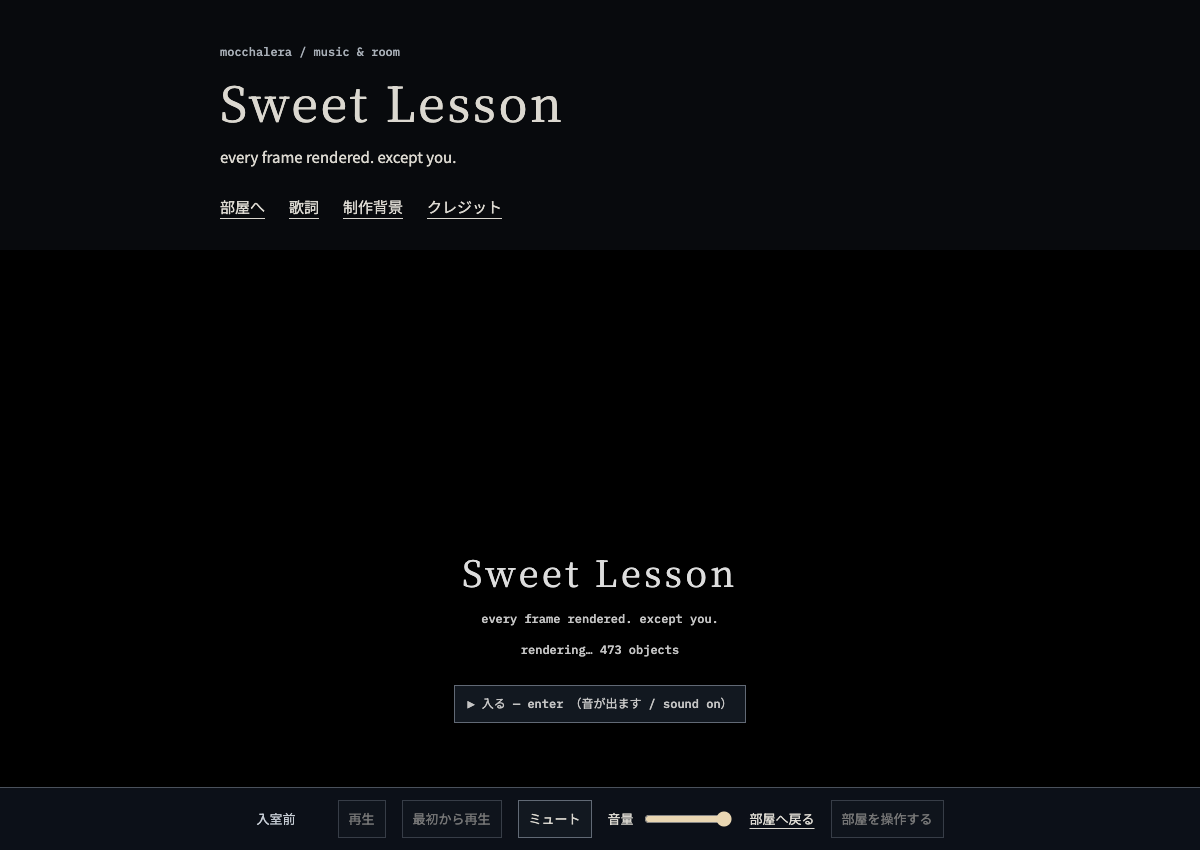
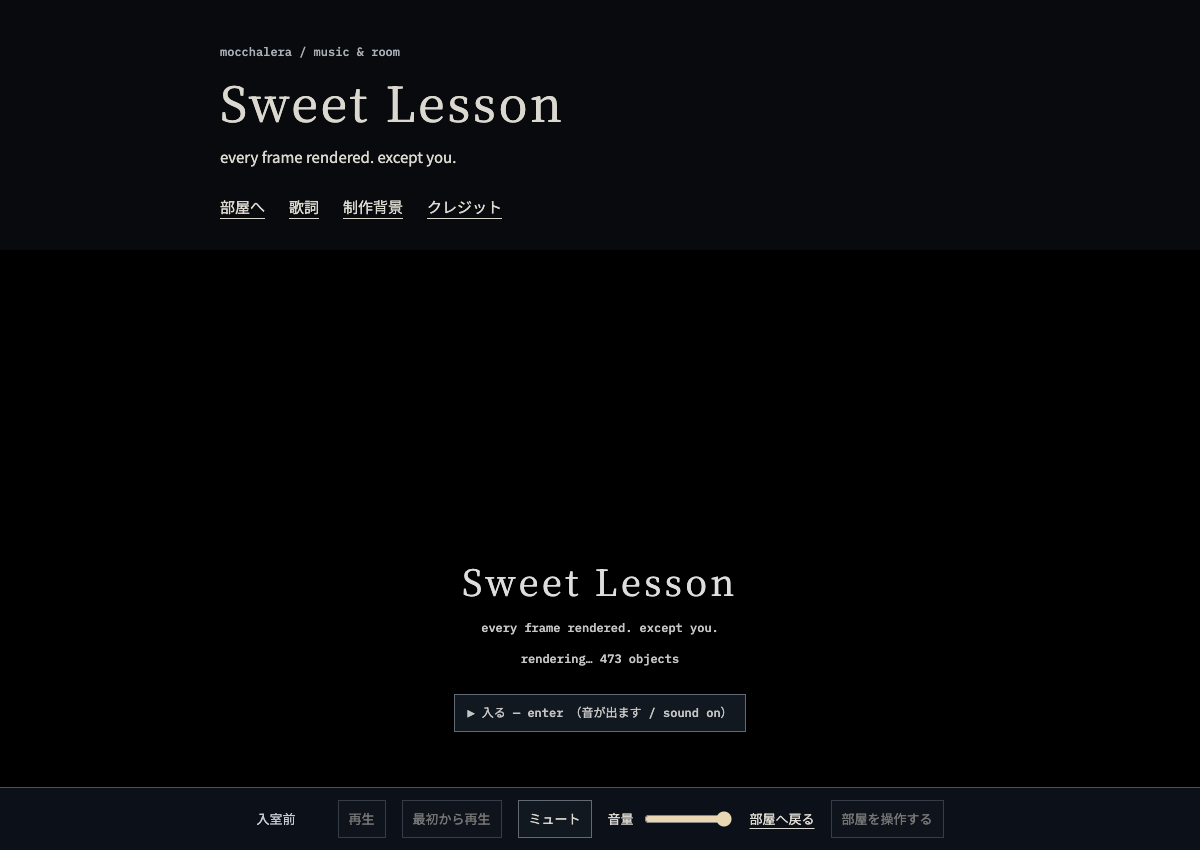
fix(sweet-lesson): settle room scroll without trapping page navigation

Changed region(s): [[0.37, 0.6424, 0.6167, 0.8871]]

diff --git a/projects/sweet-lesson-mv/web/page.css b/projects/sweet-lesson-mv/web/page.css
@@ -1,1 +1,1 @@
-html{background:#080a0d;color:#dbd8d0;font:15px/1.85 "Room Sans","Hiragino Sans",sans-serif}body{margin:0}*{box-sizing:border-box}a{color:inherit;text-underline-offset:.3em}button,input{font:inherit}button{color:inherit;background:#121820;border:1px solid #616975;padding:8px 12px;cursor:pointer}button:disabled{opacity:.5;cursor:default}button:hover:enabled{background:#242c36}a:focus-visible,button:focus-visible,input:focus-visible,[tabindex]:focus-visible{outline:2px solid #e9d6b2;outline-offset:5px}#stage:focus-visible{outline-offset:-5px}[hidden]{display:none!important}.sr-only{position:absolute;width:1px;height:1px;padding:0;margin:-1px;overflow:hidden;clip-path:inset(50%);white-space:nowrap;border:0}.skip{position:fixed;top:8px;left:12px;z-index:100;background:#080a0d;padding:12px;transform:translateY(-160%)}.skip:focus{transform:none}.work-header,.reading,.work-footer{width:min(100% - 48px,760px);margin-inline:auto}.work-header{padding:36px 0 30px}.work-header h1{font:400 clamp(32px,5vw,48px)/1.2 "Room Serif",serif;letter-spacing:.06em;margin:12px 0}.work-header p{margin:6px 0}.eyebrow{font:12px/1.6 "Room Mono",monospace;color:#a8afb7}.work-header nav{display:flex;flex-wrap:wrap;gap:12px 24px;margin-top:22px}#room{scroll-margin-top:12px}#room-view{position:relative;isolation:isolate;height:calc(100svh - 82px);min-height:340px;overflow:hidden;background:#000;color:#c4c4c4;user-select:none}#stage{position:absolute;inset:0;touch-action:pan-y pinch-zoom;-webkit-tap-highlight-color:transparent}#room-view.interacting #stage{touch-action:none}#gate{position:absolute;inset:0;display:flex;flex-direction:column;align-items:center;justify-content:center;gap:12px;padding:24px;z-index:5;background:#000;text-align:center;font:12px/1.6 "Room Mono","Room Sans",monospace}#gate p{margin:0}#gate .gate-title{font:400 36px "Room Serif",serif;color:#ddd;letter-spacing:.1em}#gate button{margin-top:14px;opacity:0;transition:opacity .6s}#gate button.on{opacity:1}#hint{position:absolute;left:50%;bottom:24px;transform:translateX(-50%);z-index:4;width:max-content;max-width:90%;text-align:center;font-size:14px;text-shadow:0 0 6px #000;opacity:0;transition:opacity 1.2s;pointer-events:none}#hint.on{opacity:1}#hud{position:absolute;left:8px;top:8px;z-index:6;white-space:pre;pointer-events:none;color:#9a9;text-shadow:0 0 3px #000;display:none}#room-help{max-width:760px;margin:20px auto;padding:0 24px;color:#a8afb7;font-size:13px}.reading{padding:42px 0 0}.reading section{margin-bottom:72px;scroll-margin-top:24px}.reading h2{font:400 25px/1.5 "Room Serif",serif;letter-spacing:.08em;margin:0 0 28px}.reading p{max-width:42em;overflow-wrap:anywhere}.lyrics{font:16px/2.1 "Room Sans","Hiragino Sans",sans-serif}.lyrics p{margin:0}.lyrics .stanza{margin:0 0 32px}dl{margin:0}dt{font:12px/1.8 "Room Mono",monospace;color:#a8afb7}dd{margin:0 0 22px}.work-footer{padding:0 0 150px;color:#a8afb7}#player{position:fixed;left:0;right:0;bottom:0;z-index:20;display:flex;align-items:center;justify-content:center;gap:8px 16px;padding:12px 16px calc(12px + env(safe-area-inset-bottom));background:#0c1018;border-top:1px solid #4a515c;font-size:13px}#player-status{min-width:5em;color:#c7cdd5}#player button{padding:6px 10px}.volume{display:flex;align-items:center;gap:8px}.volume input{width:88px;accent-color:#e9d6b2}#player a{white-space:nowrap}@media(max-width:680px){.work-header,.reading,.work-footer{width:calc(100% - 40px)}.work-header{padding-top:24px}#player{flex-wrap:wrap;gap:8px 12px;justify-content:flex-start}#player-status{min-width:4em}#room-view{height:calc(100svh - 132px)}.lyrics{font-size:15px}.work-footer{padding-bottom:190px}}@media(prefers-reduced-motion:reduce){*,*::before,*::after{scroll-behavior:auto!important;animation:none!important;transition:none!important}}
+html{--player-height:0px;scroll-snap-type:none;scroll-padding-top:env(safe-area-inset-top,0px);scroll-padding-bottom:var(--player-height);background:#080a0d;color:#dbd8d0;font:15px/1.85 "Room Sans","Hiragino Sans",sans-serif}html.room-snap-on:not(.room-snap-free){scroll-snap-type:y proximity}body{margin:0}*{box-sizing:border-box}a{color:inherit;text-underline-offset:.3em}button,input{font:inherit}button{color:inherit;background:#121820;border:1px solid #616975;padding:8px 12px;cursor:pointer}button:disabled{opacity:.5;cursor:default}button:hover:enabled{background:#242c36}a:focus-visible,button:focus-visible,input:focus-visible,[tabindex]:focus-visible{outline:2px solid #e9d6b2;outline-offset:5px}#stage:focus-visible{outline-offset:-5px}[hidden]{display:none!important}.sr-only{position:absolute;width:1px;height:1px;padding:0;margin:-1px;overflow:hidden;clip-path:inset(50%);white-space:nowrap;border:0}.skip{position:fixed;top:8px;left:12px;z-index:100;background:#080a0d;padding:12px;transform:translateY(-160%)}.skip:focus{transform:none}.work-header,.reading,.work-footer{width:min(100% - 48px,760px);margin-inline:auto}.work-header{padding:36px 0 30px}.work-header h1{font:400 clamp(32px,5vw,48px)/1.2 "Room Serif",serif;letter-spacing:.06em;margin:12px 0}.work-header p{margin:6px 0}.eyebrow{font:12px/1.6 "Room Mono",monospace;color:#a8afb7}.work-header nav{display:flex;flex-wrap:wrap;gap:12px 24px;margin-top:22px}#room{scroll-margin-top:0}#room-view{position:relative;isolation:isolate;height:calc(100dvh - var(--player-height) - env(safe-area-inset-top,0px));scroll-snap-align:start;scroll-snap-stop:normal;overflow:hidden;background:#000;color:#c4c4c4;user-select:none}#stage{position:absolute;inset:0;touch-action:pan-y pinch-zoom;-webkit-tap-highlight-color:transparent}#room-view.interacting #stage{touch-action:none}#gate{position:absolute;inset:0;display:flex;flex-direction:column;align-items:center;justify-content:center;gap:12px;padding:24px;z-index:5;background:#000;text-align:center;font:12px/1.6 "Room Mono","Room Sans",monospace}#gate p{margin:0}#gate .gate-title{font:400 36px "Room Serif",serif;color:#ddd;letter-spacing:.1em}#gate button{margin-top:14px;opacity:0;transition:opacity .6s}#gate button.on{opacity:1}#hint{position:absolute;left:50%;bottom:24px;transform:translateX(-50%);z-index:4;width:max-content;max-width:90%;text-align:center;font-size:14px;text-shadow:0 0 6px #000;opacity:0;transition:opacity 1.2s;pointer-events:none}#hint.on{opacity:1}#hud{position:absolute;left:8px;top:8px;z-index:6;white-space:pre;pointer-events:none;color:#9a9;text-shadow:0 0 3px #000;display:none}#room-help{max-width:760px;margin:20px auto;padding:0 24px;color:#a8afb7;font-size:13px}.reading{padding:42px 0 0}.reading section{margin-bottom:72px;scroll-margin-top:24px}.reading h2{font:400 25px/1.5 "Room Serif",serif;letter-spacing:.08em;margin:0 0 28px}.reading p{max-width:42em;overflow-wrap:anywhere}.lyrics{font:16px/2.1 "Room Sans","Hiragino Sans",sans-serif}.lyrics p{margin:0}.lyrics .stanza{margin:0 0 32px}dl{margin:0}dt{font:12px/1.8 "Room Mono",monospace;color:#a8afb7}dd{margin:0 0 22px}.work-footer{padding:0 0 150px;color:#a8afb7}#player{position:fixed;left:0;right:0;bottom:0;z-index:20;display:flex;flex-wrap:wrap;align-items:center;justify-content:center;gap:8px 16px;padding:12px 16px calc(12px + env(safe-area-inset-bottom));background:#0c1018;border-top:1px solid #4a515c;font-size:13px}#player-status{min-width:5em;color:#c7cdd5}#player button{padding:6px 10px}.volume{display:flex;align-items:center;gap:8px}.volume input{width:88px;accent-color:#e9d6b2}#player a{white-space:nowrap}@media(max-width:680px){.work-header,.reading,.work-footer{width:calc(100% - 40px)}.work-header{padding-top:24px}#player{flex-wrap:wrap;gap:8px 12px;justify-content:flex-start}#player-status{min-width:4em}.lyrics{font-size:15px}.work-footer{padding-bottom:190px}}@media(max-height:420px){#gate{gap:6px;padding:12px}#gate .gate-title{font-size:28px}#gate button{margin-top:4px}}@media(prefers-reduced-motion:reduce){html{scroll-snap-type:none!important}*,*::before,*::after{scroll-behavior:auto!important;animation:none!important;transition:none!important}}

diff --git a/projects/sweet-lesson-mv/web/walk/page-snap.js b/projects/sweet-lesson-mv/web/walk/page-snap.js
@@ -1,0 +1,53 @@
+// The browser chooses the snap position. Never cancel an input or synthesize a scroll.
+// Chrome proximity snap can keep returning to the same point on small wheel gestures:
+// after resting at the room, a new departure gesture temporarily releases that point.
+export function installRoomSnap(room) {
+  const root = document.documentElement;
+  let free = true, lastWheel = -Infinity, lastY = scrollY, inputDirection = 0, touch = null;
+  const offset = () => room.getBoundingClientRect().top - (parseFloat(getComputedStyle(root).scrollPaddingTop) || 0);
+  const clear = () => { free = false; root.classList.remove("room-snap-free"); };
+  const depart = () => { free = true; root.classList.add("room-snap-free"); };
+  const rested = (beforeScroll = false) => Math.abs(offset() + (beforeScroll ? scrollY - lastY : 0)) < 3;
+  const approachOrDepart = (direction, newGesture = true, wasAtRoom = rested()) => {
+    if (!direction) return;
+    inputDirection = direction;
+    if (!free && newGesture && wasAtRoom) depart();
+  };
+  addEventListener("wheel", (e) => {
+    if (Math.abs(e.deltaY) < Math.abs(e.deltaX) || e.ctrlKey || e.target?.closest?.("#log")) return;
+    const now = performance.now();
+    // Passive wheel events can arrive after compositor scrolling; use the preceding scroll position.
+    approachOrDepart(Math.sign(e.deltaY), now - lastWheel > 180, rested(true));
+    lastWheel = now;
+  }, { passive: true });
+  addEventListener("scroll", () => {
+    const direction = Math.sign(scrollY - lastY); lastY = scrollY;
+    if (!free) return;
+    const d = offset();
+    // Restore only when approaching the room closely again. Restoring while reading
+    // can make browsers re-snap to an old target after a layout change.
+    if (direction === inputDirection && d * direction > 0 && Math.abs(d) < innerHeight * 0.25) clear();
+  }, { passive: true });
+  addEventListener("keydown", (e) => {
+    if (e.metaKey || e.ctrlKey || e.altKey || e.defaultPrevented) return;
+    if (e.target?.closest?.("input,button,a,[role=button],#log")) return;
+    if (e.target?.id === "stage" && !["PageDown", "PageUp", "Home", "End"].includes(e.code)) return;
+    const direction = { PageDown: 1, ArrowDown: 1, End: 1, PageUp: -1, ArrowUp: -1, Home: -1, Space: e.shiftKey ? -1 : 1 }[e.code];
+    approachOrDepart(direction, !e.repeat);
+  });
+  addEventListener("pointerdown", (e) => {
+    touch = e.pointerType === "touch" && !e.target?.closest?.("#log,input,button,a") && !room.classList.contains("interacting")
+      ? { id: e.pointerId, x: e.clientX, y: e.clientY, rested: rested() } : null;
+  }, { passive: true });
+  addEventListener("pointermove", (e) => {
+    if (!touch || e.pointerId !== touch.id) return;
+    const dx = e.clientX - touch.x, dy = e.clientY - touch.y;
+    if (Math.abs(dy) > 12 && Math.abs(dy) > Math.abs(dx)) {
+      approachOrDepart(-Math.sign(dy), true, touch.rested); touch = null;
+    }
+  }, { passive: true });
+  for (const event of ["pointerup", "pointercancel"]) addEventListener(event, () => { touch = null; }, { passive: true });
+  document.addEventListener("click", (e) => { if (e.target?.closest?.('a[href="#room"]')) clear(); });
+  // Start released: the short header and long text have no snap points.
+  root.classList.add("room-snap-on", "room-snap-free");
+}

diff --git a/projects/sweet-lesson-mv/web/walk/walk.js b/projects/sweet-lesson-mv/web/walk/walk.js
@@ -1,5 +1,6 @@
 // Sweet Lesson web — M2: the room as a work. Audio position = song time; the flow is the MV's camera; the viewer may leave it (M1);
 // and now: the context number, the time line, captions, Esc, traces (dust, steps, breath), and the epilogue at the window.
+import { installRoomSnap } from "./page-snap.js";
 import { FreeCam, P, portraitFov } from "./freecam.js";
 import { floorPoint } from "./pick.js";
 import { Cursor } from "./cursor.js";
@@ -28,6 +29,10 @@ const keyDown = new Set();
 const roomView = document.getElementById("room-view"), stage = document.getElementById("stage");
 const player = document.getElementById("player"), playToggle = document.getElementById("play-toggle"), replayBtn = document.getElementById("replay"), volume = document.getElementById("volume"), muteBtn = document.getElementById("mute"), roomMode = document.getElementById("room-mode"), playerStatus = document.getElementById("player-status");
 player.hidden = false;
+// Native proximity snapping handles scrolling. Measure only the fixed bar so the entire room fits above it.
+const fitPlayer = () => document.documentElement.style.setProperty("--player-height", `${Math.ceil(player.getBoundingClientRect().height)}px`);
+fitPlayer(); new ResizeObserver(fitPlayer).observe(player);
+installRoomSnap(roomView);
 let roomInteracting = false, replaying = false;
 function updatePlayer() {
   playToggle.disabled = !started || W.noRoom || epiOn;

diff --git a/projects/sweet-lesson-mv/web/m4-snap-report.md b/projects/sweet-lesson-mv/web/m4-snap-report.md
@@ -1,0 +1,33 @@
+# Sweet Lesson — 部屋に収まるスクロール（未公開）
+
+同じ `feat/sweet-lesson-page-scroll` ブランチ、同じローカルプレビュー http://127.0.0.1:8876/ に反映。公開サイトへの反映・push・PR・デプロイは行っていない。既存のユーザーのブラウザタブは操作していない。
+
+## 挙動
+
+部屋に近づくとCSSの `scroll-snap-type: y proximity` で部屋全体が収まる。部屋だけがスナップ点で、ヘッダーと本文は通常のスクロール。部屋に止まったあと新しい縦入力を始めるとスナップを一時解除する。続けて小さくスクロールしても本文へ抜けられる。
+
+本文では解除したままにし、ユーザーの入力方向と実際の移動方向が一致して部屋へ近づいたときだけ再び有効にする。ブラウザのスナップ戻りの動きを新しい接近と解釈しない。ホイール・タッチのイベントをキャンセルせず、独自のスクロール移動・アニメーションも行わない。「部屋へ」の明示的なリンクは部屋に収める。
+
+部屋は `100dvh` からResizeObserverで測った下部バーの高さと上部safe-areaを引く。操作バーの折り返しや画面サイズの変化にも追従する。reduced-motionではスナップを無効にする。
+
+音声・canvas・カメラ・曲の時計・エピローグの実装は変更していない。今回の変更はページのスクロールと寸法に限定。
+
+## 検証と証拠
+
+- `node web/build.mjs`: 成功、89ファイル・17.1 MB。
+- [スクロールスナップ22項目](review/snap/results.json): すべてpass。上下からの接近、減衰するホイール入力、小さい入力の継続での脱出、本文の再吸着なし、PageDown、アンカー、リサイズ、操作バーの折り返し、再生継続、終了後の歩行、reduced-motion、縦・横画面、スワイプを確認。
+- [追加入力4項目](review/scroll/input-results.json): すべてpass。スクロール時のフォーカス解除、本文でのWASD無効化、フォーカス枠、二本指入力の解除を再確認。
+- LP Interaction QA: 通常・reduced-motion・JavaScript無効の15項目pass。エラー・警告0。`artifacts/sweet-snap-interaction/interaction-report.json`。manifestとreportのSHA-256をreceiptと照合済み。
+- 音声・canvas・カメラの同一インスタンスとシークなしを確認。今回の終了後の検証はQAで213秒へ移動後、実際のaudio.endedを待って歩行を確認したもの。全214.8秒の自然再生は前の変更で完了している（[前回報告](m4-scroll-report.md)）。
+- 構文チェックと `git diff --check` 成功。
+
+専用のヘッドレスChromeプロファイル、Metalバックエンド、低解像度tier=4、一度に一つの部屋で検証。重い負荷試験は行っていない。
+
+## 未確認
+
+物理トラックパッドの慣性、Safari、実機iPhoneのアドレスバー伸縮・safe-area・音量制約、耳で聴く音声出力は未確認。慣性相当は減衰するホイールイベント、可視領域の変化はChromeのviewportサイズ変更で確認した。実機同等の検証と混同しない。
+
+## 画像
+
+- [部屋全体と下部バー](review/snap/room-snapped.png)
+- [横画面と下部バー](review/snap/mobile-landscape.png)

diff --git a/projects/sweet-lesson-mv/web/README.md b/projects/sweet-lesson-mv/web/README.md
@@ -5,8 +5,9 @@
 
 ## 作品ページ
 
-短いヘッダー → ほぼ一画面の部屋 → 歌詞 → 制作背景 → クレジット。ページ全体は通常の縦スクロールで、部屋だけをクリップする。スクロール演出・スクロールによるシーク・自動スクロールはない。
+短いヘッダー → ほぼ一画面の部屋 → 歌詞 → 制作背景 → クレジット。ページ全体は通常の縦スクロールで、部屋だけをクリップする。部屋に近づくと弱いスナップで一画面に収め、続けてスクロールすれば本文へ抜ける。スクロールによるシーク・自動スクロールはない。
 
+- 部屋の高さは `100dvh` から常設バーの実測高を引く。本文を読んでいる間はスナップを解除し、reduced-motionではスナップを無効にする。詳細と検証は `m4-snap-report.md`。
 - ヘッダーの「部屋へ」はアンカー移動だけ。音は既存の「入る」から明示的に開始する。
 - 常設バーで再生／一時停止、最初から再生、ミュート、音量、部屋へ戻る操作ができる。最初の入室前にバーから音を開始しない。
 - スクロール・本文から戻る操作は音源、canvas、カメラのコントローラを作り直さない。自然終了は audio.ended を待ち、既存の静かなエピローグを維持する。
@@ -22,6 +23,7 @@
 node projects/sweet-lesson-mv/web/build.mjs
 node projects/sweet-lesson-mv/web/serve.mjs 8876
 node projects/sweet-lesson-mv/web/qa/scroll.browser.mjs
+node projects/sweet-lesson-mv/web/qa/snap.browser.mjs
 ```
 
 `scroll.browser.mjs` はインストール済みChromeを別の一時プロファイルで起動し、低解像度の部屋を一つずつ検証する。既存のタブやブラウザ設定は変更しない。`web/review/scroll/browser-results.json` に結果と画像を保存する。実機iPhoneの音量／音声ポリシーは別途確認が必要（HTMLMediaElement.volumeに端末側の制限がある）。
